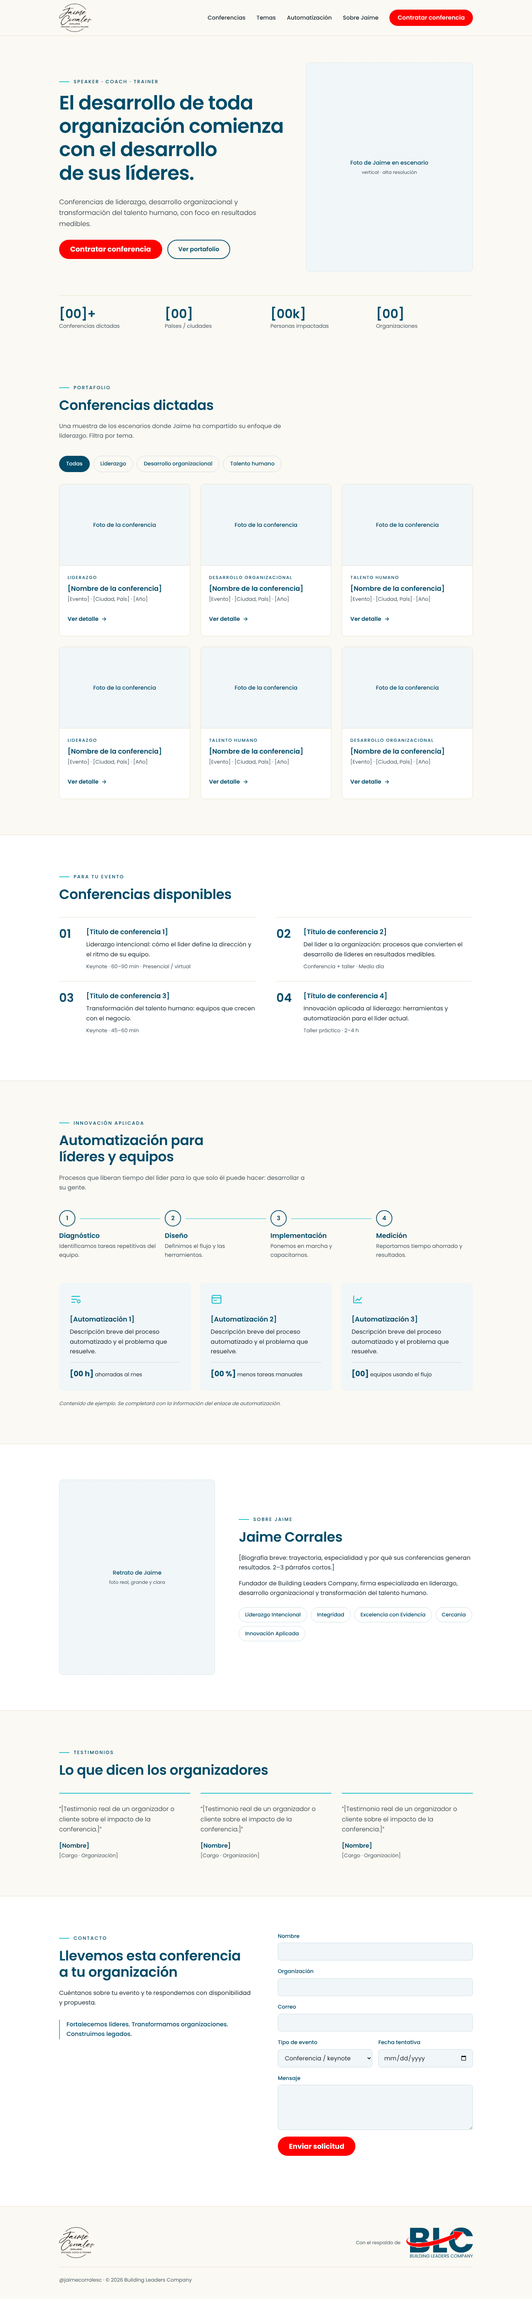
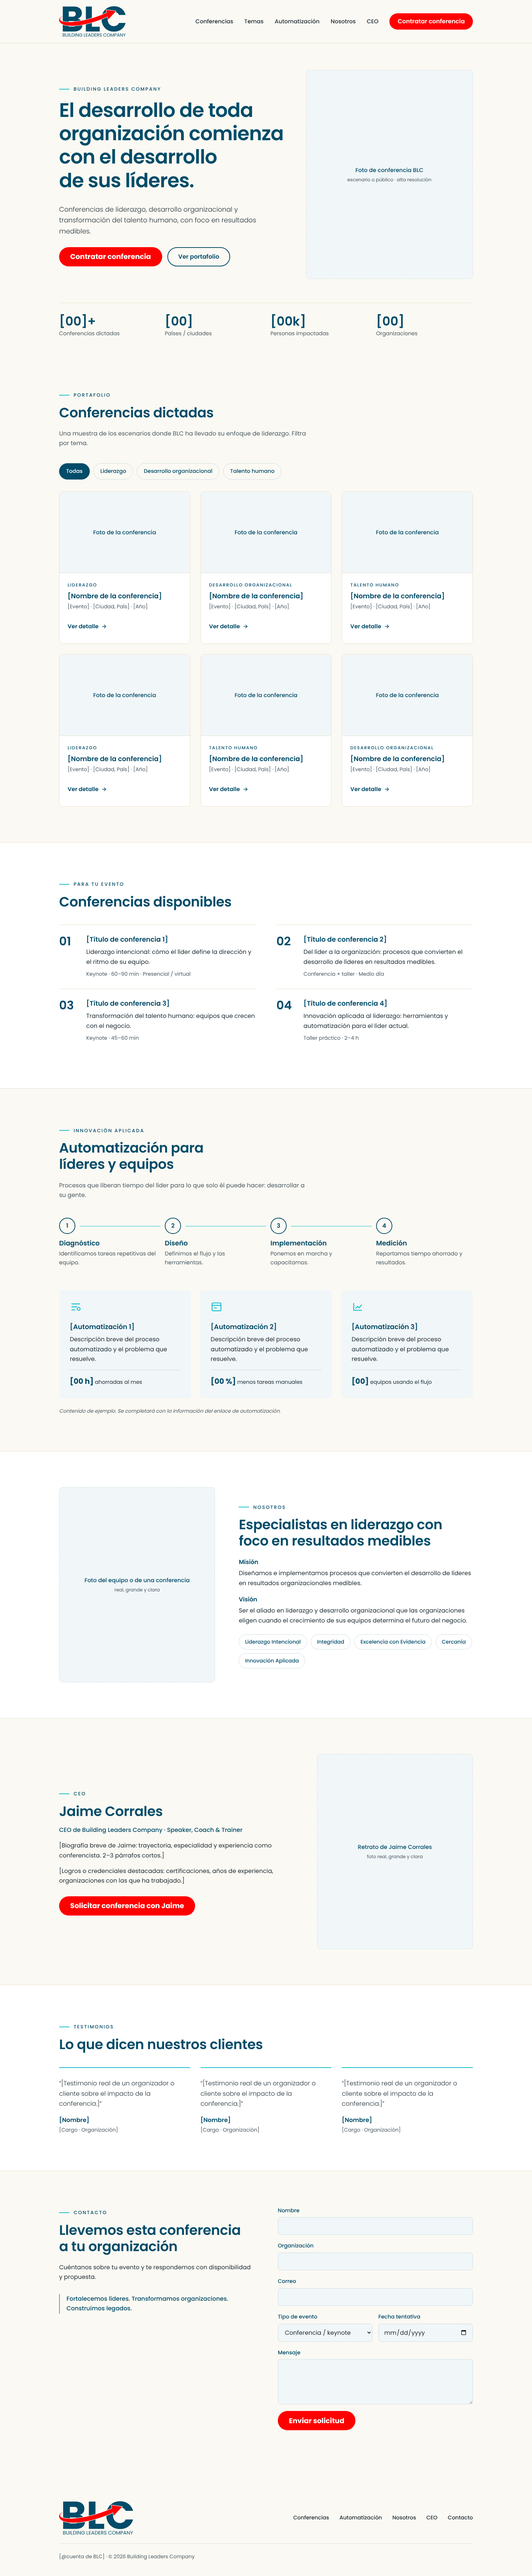
Cambia la marca líder a BLC y agrega apartado CEO de Jaime Corrales
- Encabezado y pie solo con el logo BLC con nombre (mínimo 180 px)
- Sección Nosotros con misión, visión y valores del manual
- Nuevo apartado CEO con Jaime Corrales; se retiran sus logos (web institucional)
- Capturas de vista previa actualizadas

Claude-Session: https://claude.ai/code/session_01WCj9xs9Gz3GYaHb4eT4hNZ

diff --git a/index.html b/index.html
@@ -3,8 +3,8 @@
 <head>
   <meta charset="utf-8">
   <meta name="viewport" content="width=device-width, initial-scale=1">
-  <title>Jaime Corrales · Speaker, Coach & Trainer</title>
-  <meta name="description" content="Conferencias de liderazgo y desarrollo organizacional de Jaime Corrales, con el respaldo de Building Leaders Company.">
+  <title>Building Leaders Company · Conferencias de liderazgo</title>
+  <meta name="description" content="Building Leaders Company: conferencias de liderazgo, desarrollo organizacional y transformación del talento humano, con foco en resultados medibles.">
   <link rel="preconnect" href="https://fonts.googleapis.com">
   <link rel="preconnect" href="https://fonts.gstatic.com" crossorigin>
   <link href="https://fonts.googleapis.com/css2?family=Poppins:wght@300;400;500;600;700&display=swap" rel="stylesheet">
@@ -13,11 +13,11 @@
 <body>
   <a class="skip-link" href="#contenido">Saltar al contenido</a>
 
-  <!-- ENCABEZADO: conferencia = Jaime Corrales lidera; BLC firma en pequeño (manual, p. 9) -->
+  <!-- ENCABEZADO: web institucional = solo BLC, logo con nombre (manual: Aplicaciones por canal y Qué marca lidera) -->
   <header class="site-header">
     <div class="container header-inner">
-      <a href="#inicio" class="brand" aria-label="Jaime Corrales, inicio">
-        <img src="assets/logos/jc-negro.png" alt="Jaime Corrales · Speaker, Coach & Trainer" width="480" height="414">
+      <a href="#inicio" class="brand" aria-label="Building Leaders Company, inicio">
+        <img src="assets/logos/blc-nombre.png" alt="Building Leaders Company" width="720" height="325">
       </a>
       <button class="nav-toggle" aria-expanded="false" aria-controls="nav" aria-label="Abrir menú">
         <span></span><span></span><span></span>
@@ -26,7 +26,8 @@
         <a href="#conferencias">Conferencias</a>
         <a href="#temas">Temas</a>
         <a href="#automatizacion">Automatización</a>
-        <a href="#sobre">Sobre Jaime</a>
+        <a href="#nosotros">Nosotros</a>
+        <a href="#ceo">CEO</a>
         <a href="#contacto" class="btn btn-primary btn-sm">Contratar conferencia</a>
       </nav>
     </div>
@@ -38,7 +39,7 @@
     <section id="inicio" class="hero">
       <div class="container hero-grid">
         <div class="hero-copy">
-          <p class="eyebrow">Speaker · Coach · Trainer</p>
+          <p class="eyebrow">Building Leaders Company</p>
           <h1>El desarrollo de toda organización comienza con el desarrollo de sus líderes.</h1>
           <p class="lead">Conferencias de liderazgo, desarrollo organizacional y transformación del talento humano, con foco en resultados medibles.</p>
           <div class="hero-actions">
@@ -46,8 +47,8 @@
             <a href="#conferencias" class="btn btn-ghost">Ver portafolio</a>
           </div>
         </div>
-        <figure class="hero-photo placeholder" aria-label="Espacio para foto de Jaime Corrales">
-          <span>Foto de Jaime en escenario<br><small>vertical · alta resolución</small></span>
+        <figure class="hero-photo placeholder" aria-label="Espacio para foto de conferencia">
+          <span>Foto de conferencia BLC<br><small>escenario o público · alta resolución</small></span>
         </figure>
       </div>
 
@@ -67,7 +68,7 @@
         <header class="section-head">
           <p class="eyebrow">Portafolio</p>
           <h2>Conferencias dictadas</h2>
-          <p class="section-intro">Una muestra de los escenarios donde Jaime ha compartido su enfoque de liderazgo. Filtra por tema.</p>
+          <p class="section-intro">Una muestra de los escenarios donde BLC ha llevado su enfoque de liderazgo. Filtra por tema.</p>
         </header>
 
         <div class="filters" role="group" aria-label="Filtrar conferencias por tema">
@@ -165,17 +166,19 @@
       </div>
     </section>
 
-    <!-- SOBRE JAIME -->
-    <section id="sobre" class="section section-alt">
+    <!-- NOSOTROS (textos del Manual de Identidad Visual BLC) -->
+    <section id="nosotros" class="section section-alt">
       <div class="container about-grid">
-        <figure class="about-photo placeholder" aria-label="Espacio para retrato de Jaime Corrales">
-          <span>Retrato de Jaime<br><small>foto real, grande y clara</small></span>
+        <figure class="about-photo placeholder" aria-label="Espacio para foto del equipo o de una conferencia">
+          <span>Foto del equipo o de una conferencia<br><small>real, grande y clara</small></span>
         </figure>
         <div>
-          <p class="eyebrow">Sobre Jaime</p>
-          <h2>Jaime Corrales</h2>
-          <p>[Biografía breve: trayectoria, especialidad y por qué sus conferencias generan resultados. 2–3 párrafos cortos.]</p>
-          <p>Fundador de Building Leaders Company, firma especializada en liderazgo, desarrollo organizacional y transformación del talento humano.</p>
+          <p class="eyebrow">Nosotros</p>
+          <h2>Especialistas en liderazgo con foco en resultados medibles</h2>
+          <dl class="pillars">
+            <div><dt>Misión</dt><dd>Diseñamos e implementamos procesos que convierten el desarrollo de líderes en resultados organizacionales medibles.</dd></div>
+            <div><dt>Visión</dt><dd>Ser el aliado en liderazgo y desarrollo organizacional que las organizaciones eligen cuando el crecimiento de sus equipos determina el futuro del negocio.</dd></div>
+          </dl>
           <ul class="values" aria-label="Valores">
             <li>Liderazgo Intencional</li>
             <li>Integridad</li>
@@ -187,12 +190,29 @@
       </div>
     </section>
 
+    <!-- CEO -->
+    <section id="ceo" class="section">
+      <div class="container about-grid about-grid--reverse">
+        <div>
+          <p class="eyebrow">CEO</p>
+          <h2>Jaime Corrales</h2>
+          <p class="role">CEO de Building Leaders Company · Speaker, Coach &amp; Trainer</p>
+          <p>[Biografía breve de Jaime: trayectoria, especialidad y experiencia como conferencista. 2–3 párrafos cortos.]</p>
+          <p>[Logros o credenciales destacadas: certificaciones, años de experiencia, organizaciones con las que ha trabajado.]</p>
+          <a href="#contacto" class="btn btn-primary">Solicitar conferencia con Jaime</a>
+        </div>
+        <figure class="about-photo placeholder" aria-label="Espacio para retrato de Jaime Corrales">
+          <span>Retrato de Jaime Corrales<br><small>foto real, grande y clara</small></span>
+        </figure>
+      </div>
+    </section>
+
     <!-- TESTIMONIOS -->
-    <section class="section">
+    <section class="section section-alt">
       <div class="container">
         <header class="section-head">
           <p class="eyebrow">Testimonios</p>
-          <h2>Lo que dicen los organizadores</h2>
+          <h2>Lo que dicen nuestros clientes</h2>
         </header>
         <div class="grid-quotes">
           <blockquote>
@@ -212,7 +232,7 @@
     </section>
 
     <!-- CONTACTO -->
-    <section id="contacto" class="section section-alt">
+    <section id="contacto" class="section">
       <div class="container contact-grid">
         <div>
           <p class="eyebrow">Contacto</p>
@@ -240,6 +260,7 @@
                 <option>Conferencia / keynote</option>
                 <option>Taller</option>
                 <option>Automatización</option>
+                <option>Programa para empresas</option>
                 <option>Otro</option>
               </select>
             </div>
@@ -261,12 +282,15 @@
 
   <footer class="site-footer">
     <div class="container footer-inner">
-      <img src="assets/logos/jc-negro.png" alt="Jaime Corrales" class="footer-jc" width="480" height="414">
-      <div class="footer-sign">
-        <span>Con el respaldo de</span>
-        <img src="assets/logos/blc-nombre.png" alt="Building Leaders Company" width="720" height="325">
-      </div>
-      <p class="footer-meta">@jaimecorralesc · © 2026 Building Leaders Company</p>
+      <img src="assets/logos/blc-nombre.png" alt="Building Leaders Company" class="footer-logo" width="720" height="325">
+      <nav class="footer-nav" aria-label="Pie de página">
+        <a href="#conferencias">Conferencias</a>
+        <a href="#automatizacion">Automatización</a>
+        <a href="#nosotros">Nosotros</a>
+        <a href="#ceo">CEO</a>
+        <a href="#contacto">Contacto</a>
+      </nav>
+      <p class="footer-meta">[@cuenta de BLC] · © 2026 Building Leaders Company</p>
     </div>
   </footer>
 

diff --git a/styles.css b/styles.css
@@ -18,7 +18,7 @@
 }
 
 *, *::before, *::after { box-sizing: border-box; }
-html { scroll-behavior: smooth; scroll-padding-top: 104px; }
+html { scroll-behavior: smooth; scroll-padding-top: 124px; }
 body {
   margin: 0;
   font-family: var(--font);
@@ -72,8 +72,8 @@ p { margin: 0 0 1em; }
   backdrop-filter: blur(8px);
   border-bottom: 1px solid var(--crema-oscuro);
 }
-.header-inner { display: flex; align-items: center; justify-content: space-between; height: 96px; }
-.brand img { width: 88px; }
+.header-inner { display: flex; align-items: center; justify-content: space-between; height: 116px; }
+.brand img { width: 180px; } /* mínimo en pantalla del logo con nombre: 180 px */
 .nav { display: flex; align-items: center; gap: 30px; }
 .nav a:not(.btn) { color: var(--texto); text-decoration: none; font-weight: 500; font-size: .95rem; position: relative; }
 .nav a:not(.btn)::after { content: ""; position: absolute; left: 0; right: 100%; bottom: -6px; height: 2px; background: var(--turquesa); transition: right .25s var(--ease); }
@@ -170,6 +170,12 @@ p { margin: 0 0 1em; }
 /* Sobre */
 .about-grid { display: grid; grid-template-columns: .8fr 1.2fr; gap: 64px; align-items: center; }
 .about-photo { aspect-ratio: 4 / 5; }
+.about-grid--reverse { grid-template-columns: 1.2fr .8fr; }
+.role { font-weight: 500; color: var(--petroleo); margin-top: -.4rem; }
+.about-grid .btn { margin-top: 12px; }
+.pillars { margin: 0; display: grid; gap: 18px; }
+.pillars dt { font-weight: 600; color: var(--petroleo); }
+.pillars dd { margin: 4px 0 0; }
 .values { list-style: none; padding: 0; margin: 24px 0 0; display: flex; flex-wrap: wrap; gap: 10px; }
 .values li { padding: 8px 16px; border: 1px solid var(--azul-claro); border-radius: 999px; font-size: .875rem; font-weight: 500; color: var(--petroleo); }
 
@@ -202,9 +208,10 @@ p { margin: 0 0 1em; }
 /* Pie */
 .site-footer { padding: 56px 0 40px; }
 .footer-inner { display: grid; grid-template-columns: auto 1fr; gap: 24px 40px; align-items: center; }
-.footer-jc { width: 96px; }
-.footer-sign { justify-self: end; display: flex; align-items: center; gap: 16px; font-size: .8rem; color: #4A5A63; }
-.footer-sign img { width: 180px; } /* mínimo en pantalla del logo con nombre: 180 px */
+.footer-logo { width: 200px; }
+.footer-nav { justify-self: end; display: flex; flex-wrap: wrap; gap: 8px 28px; }
+.footer-nav a { color: var(--texto); text-decoration: none; font-size: .9rem; font-weight: 500; min-height: 44px; display: inline-flex; align-items: center; }
+.footer-nav a:hover { color: var(--petroleo); }
 .footer-meta { grid-column: 1 / -1; margin: 0; padding-top: 24px; border-top: 1px solid var(--crema-oscuro); font-size: .85rem; color: #4A5A63; }
 
 /* Diálogo de detalle */
@@ -237,7 +244,7 @@ p { margin: 0 0 1em; }
 @media (max-width: 820px) {
   .nav-toggle { display: block; }
   .nav {
-    position: absolute; top: 96px; left: 0; right: 0; flex-direction: column; align-items: stretch; gap: 0;
+    position: absolute; top: 116px; left: 0; right: 0; flex-direction: column; align-items: stretch; gap: 0;
     background: var(--crema); border-bottom: 1px solid var(--crema-oscuro); padding: 8px 20px 20px;
     display: none;
   }
@@ -249,7 +256,8 @@ p { margin: 0 0 1em; }
   .nav-toggle[aria-expanded="true"] span:nth-child(2) { opacity: 0; }
   .nav-toggle[aria-expanded="true"] span:nth-child(3) { transform: translateY(-7px) rotate(-45deg); }
   .hero { padding-top: 40px; }
-  .hero-grid, .about-grid, .contact-grid { grid-template-columns: 1fr; gap: 36px; }
+  .hero-grid, .about-grid, .about-grid--reverse, .contact-grid { grid-template-columns: 1fr; gap: 36px; }
+  .about-grid--reverse .about-photo { order: -1; }
   .hero-photo { aspect-ratio: 4 / 3; }
   .stats { grid-template-columns: 1fr 1fr; margin-top: 40px; }
   .section { padding: 72px 0; }
@@ -257,7 +265,7 @@ p { margin: 0 0 1em; }
 @media (max-width: 560px) {
   .grid-talks, .grid-auto, .grid-quotes, .flow, .field-row { grid-template-columns: 1fr; }
   .footer-inner { grid-template-columns: 1fr; }
-  .footer-sign { justify-self: start; }
+  .footer-nav { justify-self: start; }
   .btn { width: 100%; }
   .nav .btn, .form .btn { justify-self: stretch; }
 }

diff --git a/README.md b/README.md
@@ -1,6 +1,6 @@
 # Landing page · Jaime Corrales
 
-Maqueta (v0) del portafolio de conferencias de Jaime Corrales con sección de automatización, construida según el *Manual de Identidad Visual BLC v1.0*.
+Maqueta (v0) de la web de Building Leaders Company: portafolio de conferencias, automatización y apartado del CEO (Jaime Corrales), construida según el *Manual de Identidad Visual BLC v1.0*.
 
 - `index.html` · `styles.css` · `main.js` — HTML/CSS/JS sin dependencias (solo Poppins de Google Fonts).
 - `assets/logos/` — logos extraídos del manual (referencia; reemplazar por los vectoriales de producción).
